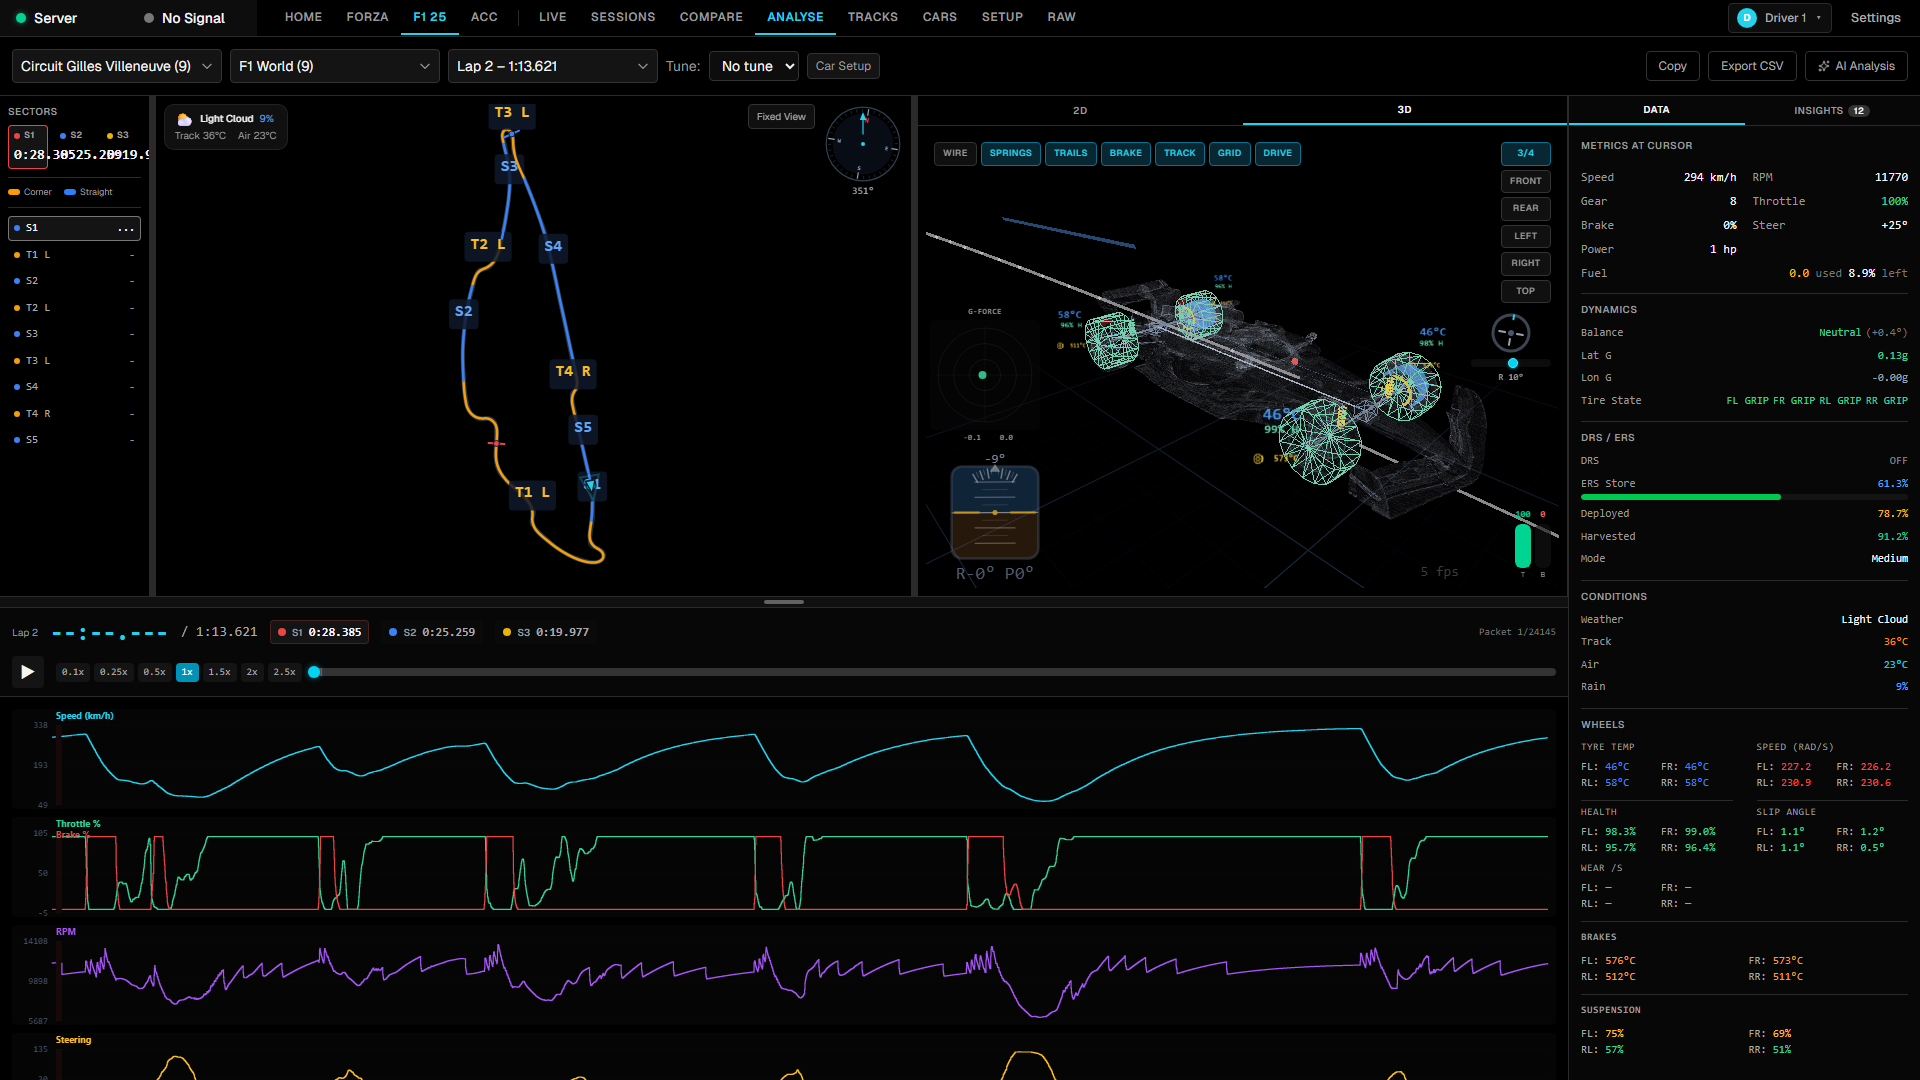
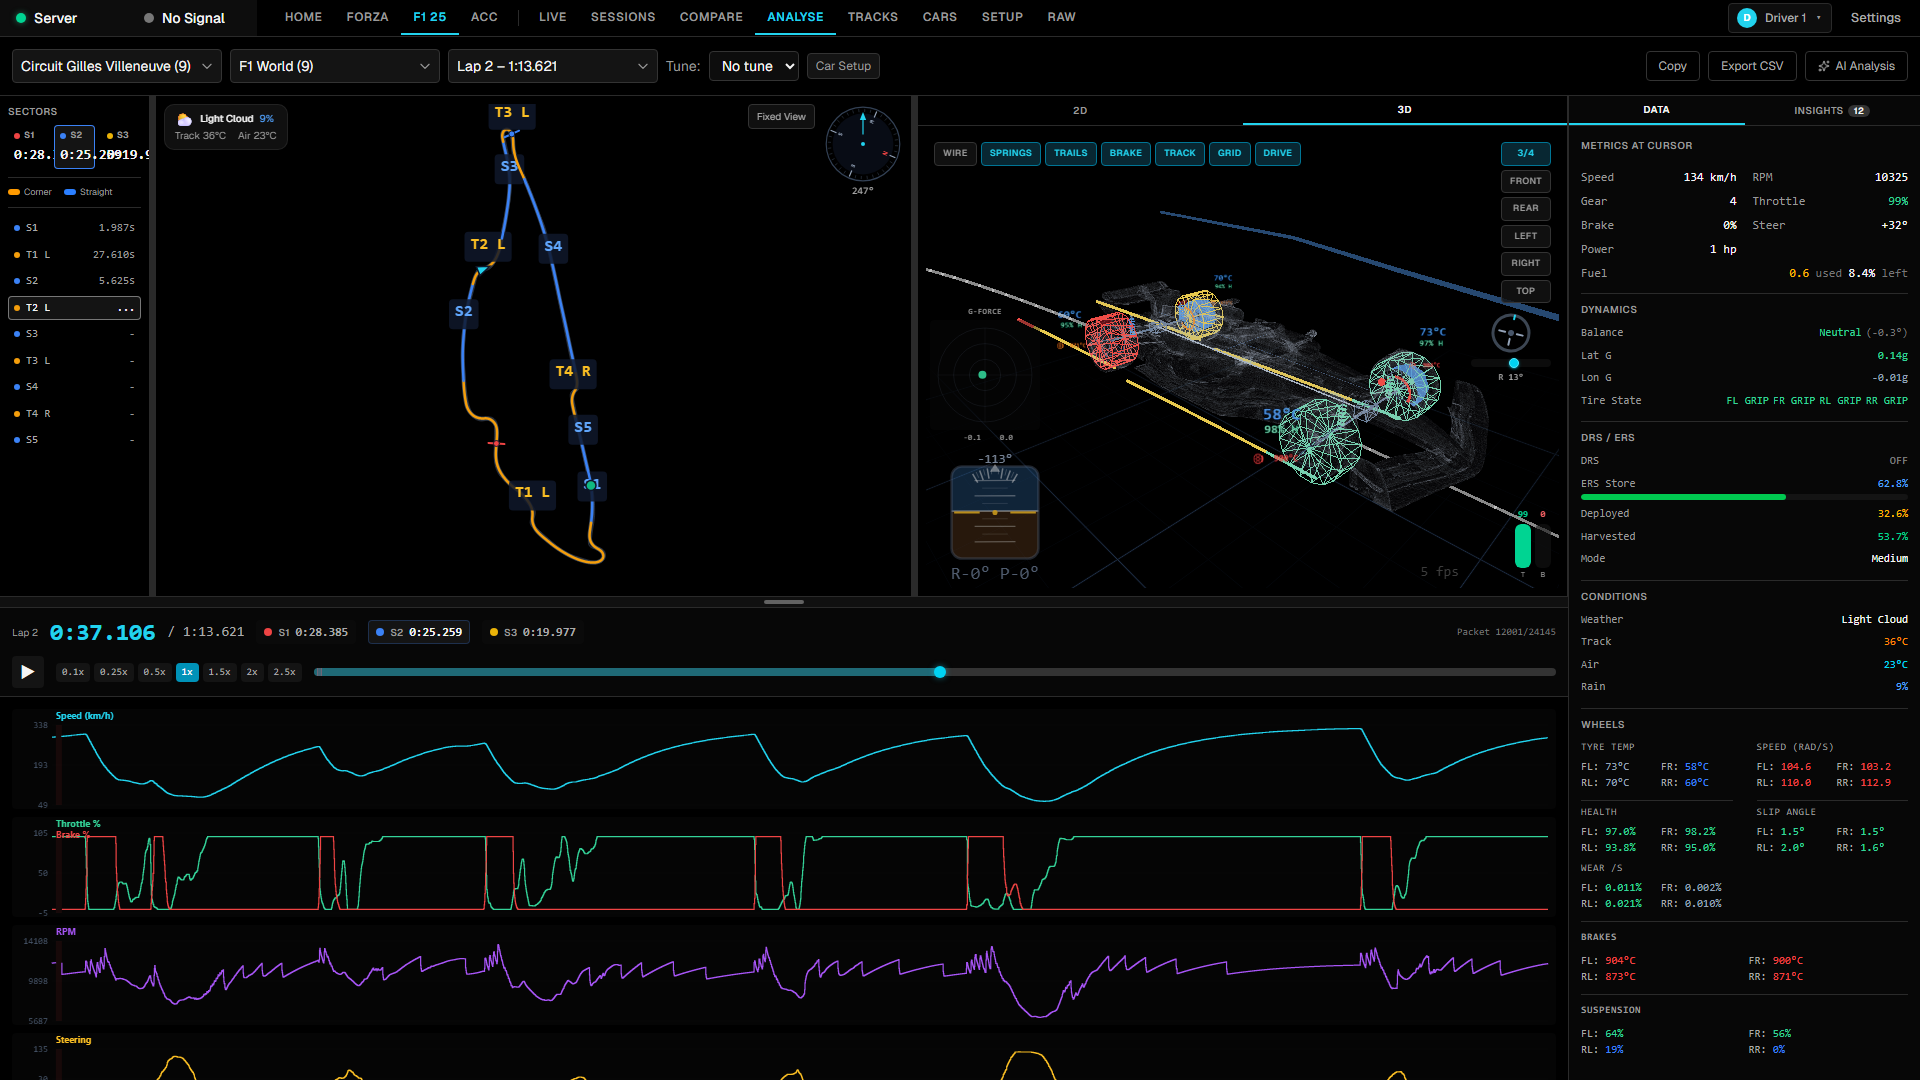
fix: preserve cursor/viz URL params when syncing selections
The URL sync effect was overwriting all search params, dropping
cursor and viz before they could be read. Now uses spread to
preserve existing params.

diff --git a/client/src/components/LapAnalyse.tsx b/client/src/components/LapAnalyse.tsx
@@ -205,14 +205,15 @@ export function LapAnalyse() {
     }
   }, [resolvedNames]);
 
-  // Sync selections to URL
+  // Sync selections to URL (preserve cursor/viz params)
   useEffect(() => {
     navigate({
-      search: {
+      search: (prev: Record<string, unknown>) => ({
+        ...prev,
         track: selectedTrack ?? undefined,
         car: selectedCar ?? undefined,
         lap: selectedLapId ?? undefined,
-      } as any,
+      }) as never,
       replace: true,
     });
   }, [selectedTrack, selectedCar, selectedLapId, navigate]);
@@ -230,13 +231,15 @@ export function LapAnalyse() {
     setSelectedLapId(null);
   }, []);
 
-  // Reset playback state when lap changes
+  // Reset playback state when lap changes (skip first mount for URL cursor)
+  const lapChangeCount = useRef(0);
   useEffect(() => {
     if (selectedLapId == null) return;
+    lapChangeCount.current++;
+    const isInitialMount = lapChangeCount.current === 1;
     setPlaying(false);
     playRef.current = false;
-    // Don't reset cursor if URL param will set it
-    if (!initialCursor || appliedInitialCursor.current) {
+    if (!isInitialMount || !initialCursor) {
       setCursorIdx(0);
       cursorRef.current = 0;
     }
@@ -248,7 +251,7 @@ export function LapAnalyse() {
   const appliedInitialCursor = useRef(false);
   useEffect(() => {
     if (appliedInitialCursor.current) return;
-    if (initialCursor != null && telemetry.length > 0) {
+    if (initialCursor != null && telemetry.length > 1) {
       const idx = Math.min(initialCursor, telemetry.length - 1);
       setCursorIdx(idx);
       cursorRef.current = idx;
